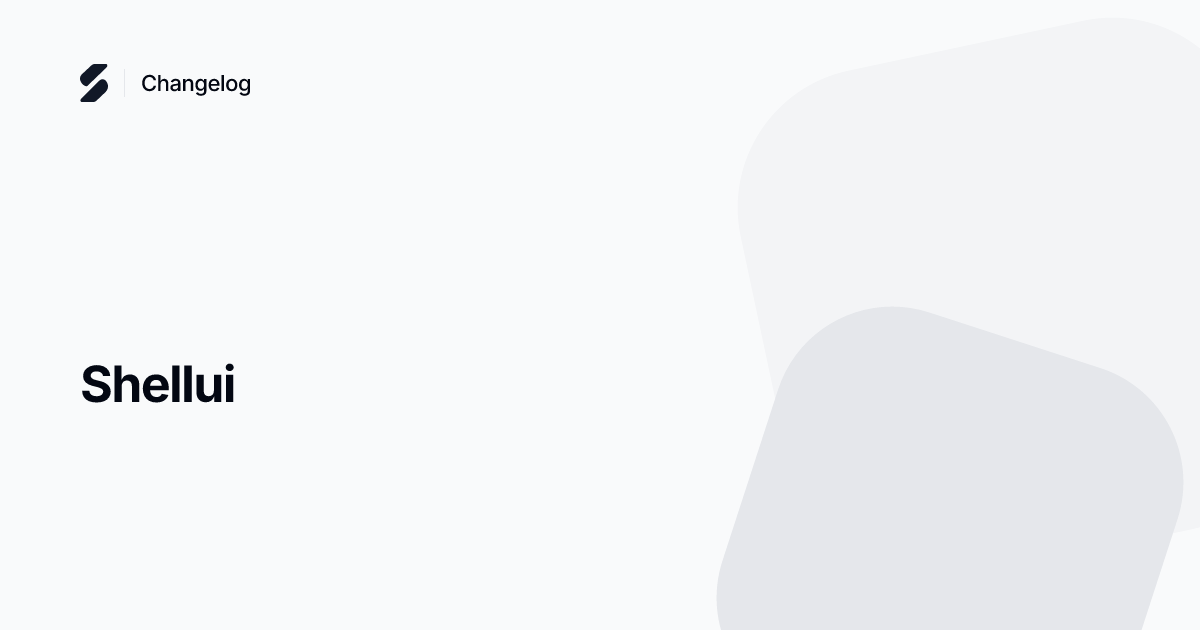
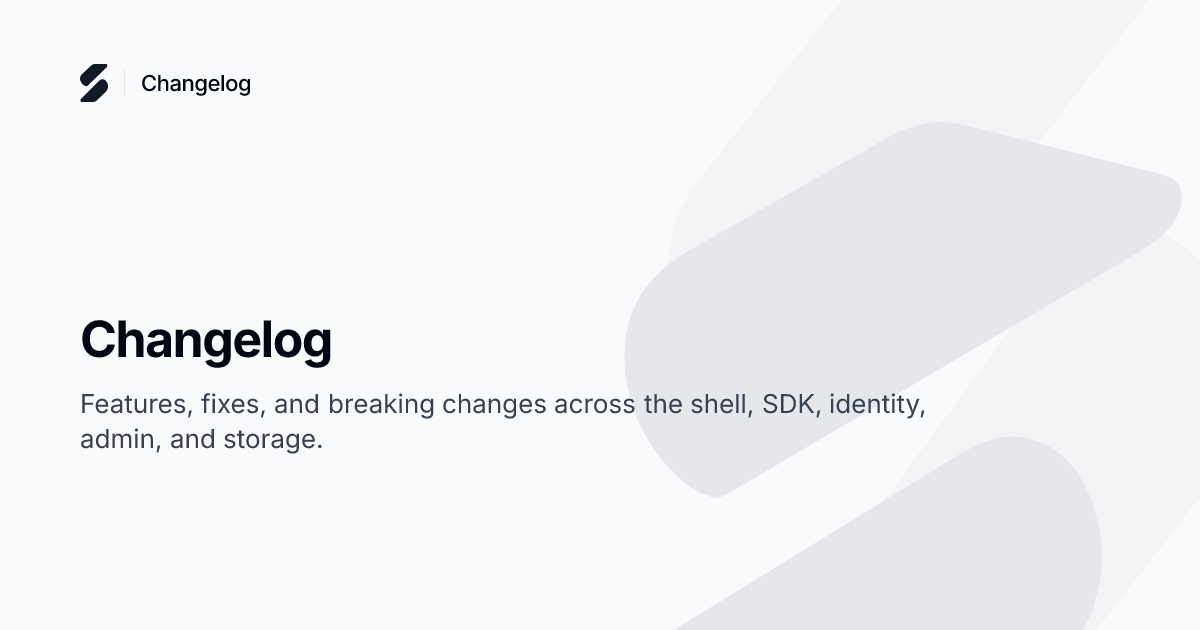
Fix OG rendering: merge front matter, brand mark watermarks, stricter verify
Eleventy after-hook results omitted page titles, so every PNG hashed to
the same Shellui fallback. Merge source front matter in page-data.mjs,
include path in cache keys, and match kit layout (header, footer pill,
mark SVG watermarks, dark blog). Verify rejects duplicate PNG bytes and
generic Shellui-only alt text when the page title differs.

Changed region(s): [[0.0617, 0.5127, 0.7708, 0.7238]]

diff --git a/docs/development.md b/docs/development.md
@@ -18,7 +18,7 @@ Paste Tailwind Plus HTML into layouts or `{% demo "name" %}` blocks. Demos are r
 
 Every page that uses `layouts/base.njk` gets a **1200×630** PNG at build time (`/og/<slug>.png`), styled from brand kit v1 (default, docs, blog, and changelog templates). [Satori](https://github.com/vercel/satori) renders React markup to SVG; `@resvg/resvg-js` rasterizes it. Inter comes from `@fontsource/inter`.
 
-- **Metadata**: `tools/og/resolve-meta.mjs` picks the template from the URL and front matter (`ogTemplate`, `ogTitle`, `ogDescription`, or `ogImage` to override the file URL). Titles and descriptions come from existing page data.
+- **Metadata**: `tools/og/page-data.mjs` merges each template’s source front matter (via gray-matter) with Eleventy data before `resolve-meta.mjs` picks the template and copy. Overrides: `ogTemplate`, `ogTitle`, `ogDescription`, or `ogImage` (custom URL skips generation). Cache keys always include the page path so identical fallback copy cannot reuse one PNG across pages.
 - **Build hook**: `eleventy.after` calls `tools/og/generate.mjs`. Content hashes are cached under `.cache/og/` so unchanged pages skip re-render.
 - **Head tags**: `base.njk` emits `og:image`, dimensions, alt text, and Twitter card fields; `eleventyComputed.js` sets absolute image URLs.
 - **Verify**: `npm run verify` runs `tools/verify-og-images.mjs` (missing meta, missing PNG, or wrong dimensions fail the build).
